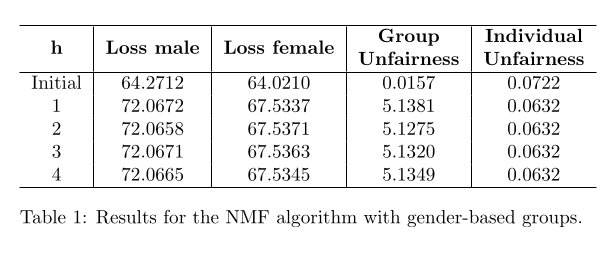
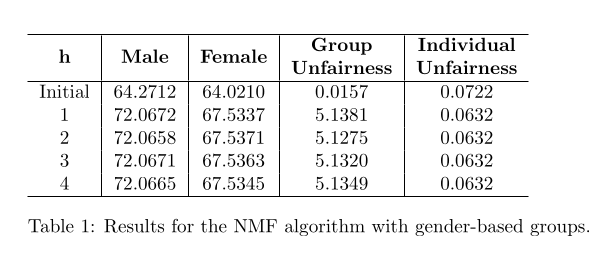
results formatting corrected

Changed region(s): [[0.031, 0.0906, 0.9608, 0.7547], [0.031, 0.7849, 0.9608, 0.9057], [0.8059, 0.5434, 0.9299, 0.6038]]

diff --git a/results/NMF_table.tex b/results/NMF_table.tex
@@ -14,7 +14,7 @@
 \begin{flushleft} 
 \begin{tabular}{c|c|c|c|c} 
 \hline
-\textbf{h} & \textbf{Loss male} & \textbf{Loss female} & \textbf{\begin{tabular}[c]{@{}c@{}}Group \\ Unfairness\end{tabular}} & \textbf{\begin{tabular}[c]{@{}c@{}}Individual \\ Unfairness\end{tabular}} \\
+\textbf{h} & \textbf{Male} & \textbf{Female} & \textbf{\begin{tabular}[c]{@{}c@{}}Group \\ Unfairness\end{tabular}} & \textbf{\begin{tabular}[c]{@{}c@{}}Individual \\ Unfairness\end{tabular}} \\
 \hline
 Initial & 64.2712 & 64.0210 & 0.0157 & 0.0722 \\
 1 & 72.0672 & 67.5337 & 5.1381 & 0.0632 \\

diff --git a/results/SVD.tex b/results/SVD.tex
@@ -15,7 +15,7 @@
 \begin{flushleft} 
 \begin{tabular}{c|c|c|c|c} 
 \hline
-\textbf{h} & \textbf{Loss male} & \textbf{Loss female} & \textbf{\begin{tabular}[c]{@{}c@{}}Group \\ Unfairness\end{tabular}} & \textbf{\begin{tabular}[c]{@{}c@{}}Individual \\ Unfairness\end{tabular}} \\
+\textbf{h} & \textbf{Male} & \textbf{Female} & \textbf{\begin{tabular}[c]{@{}c@{}}Group \\ Unfairness\end{tabular}} & \textbf{\begin{tabular}[c]{@{}c@{}}Individual \\ Unfairness\end{tabular}} \\
 \hline
 Initial & 64.2712 & 64.0210 & 0.0157 & 0.0722 \\
 1 & 49.4999 & 46.0568 & 2.9637 & 0.0378 \\
